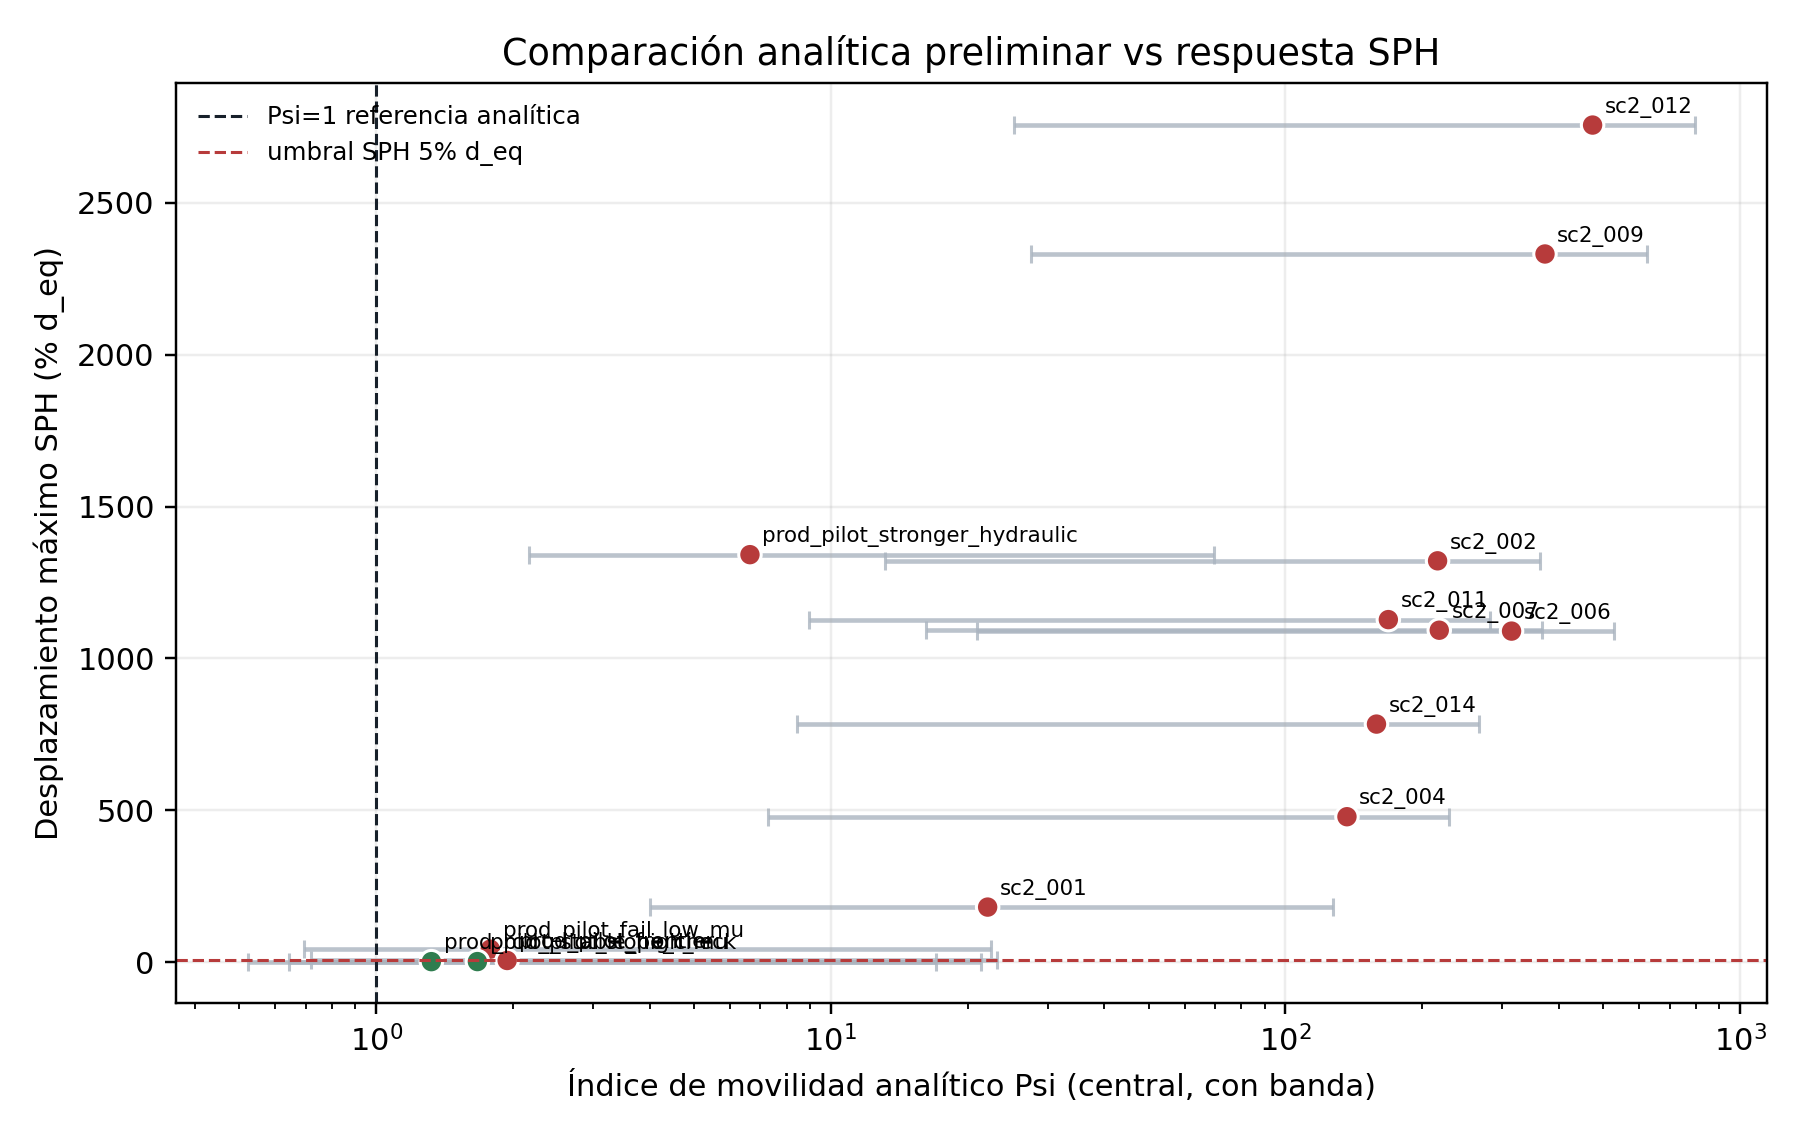
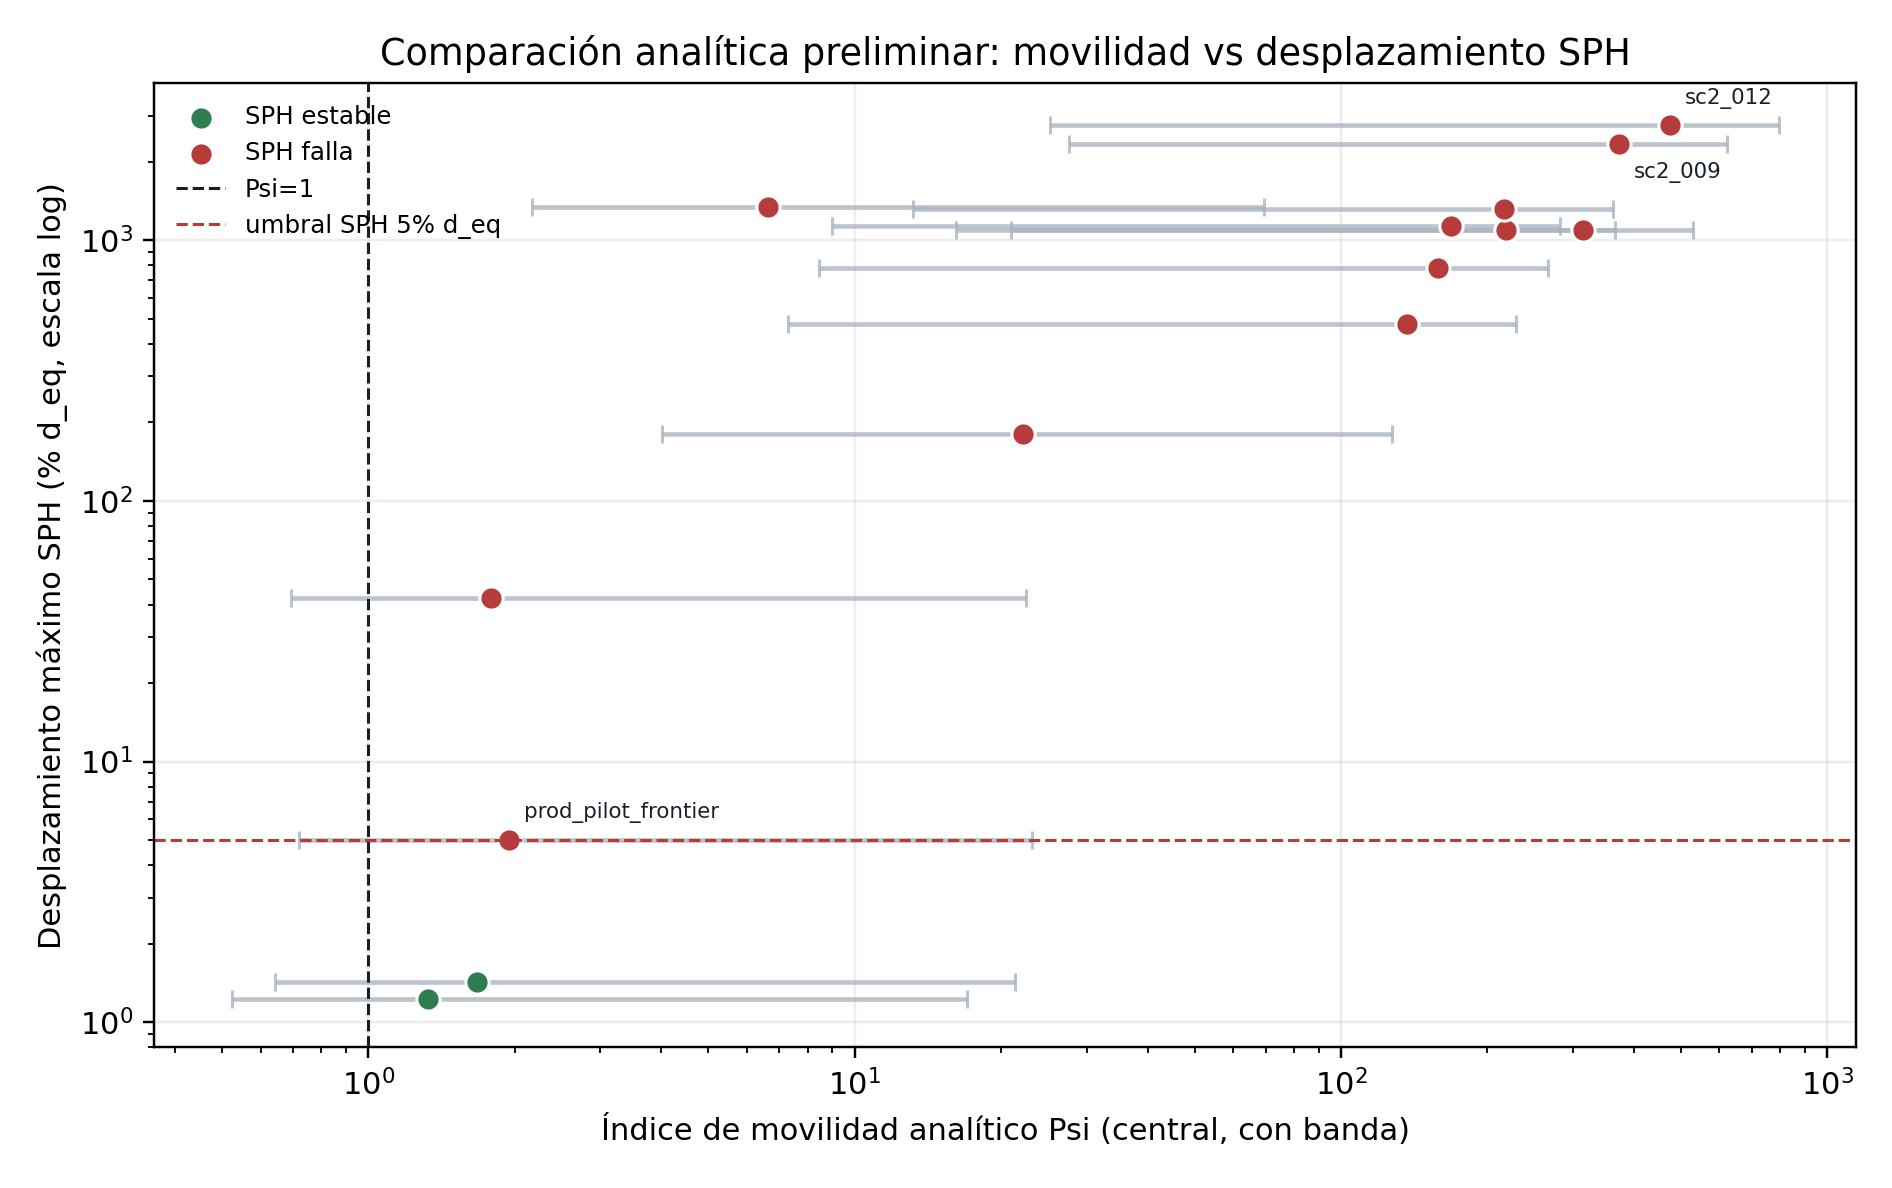
Fix final analysis figure formatting

diff --git a/index.html b/index.html
@@ -117,11 +117,11 @@
       </figure>
       <figure>
         <img src="figures/10_contact_sanity.png" alt="Sanity de contacto bloque suelo sin impacto hidraulico">
-        <figcaption><strong>Sanity de contacto:</strong> columna minima de 1 cm, sin flujo local sobre el bloque. El desplazamiento queda en 1.23% de <code>d_eq</code>, bajo el umbral de 5%, con fuerza SPH local igual a cero.</figcaption>
+        <figcaption><strong>Sanity de contacto:</strong> la zona sombreada es el acomodo inicial de Chrono/contacto. Después de ese transiente, la velocidad cae prácticamente a cero y el desplazamiento sostenido queda en 0.78% de <code>d_eq</code>, bajo el umbral de 5%, sin fuerza SPH local.</figcaption>
       </figure>
       <figure>
         <img src="figures/11_comparacion_analitica.png" alt="Comparacion analitica preliminar entre movilidad y desplazamiento">
-        <figcaption><strong>Comparacion analitica:</strong> indice <code>Psi = F_motriz / F_resistente</code> aplicado a piloto y batch2. No hay contradicciones fuertes entre banda analitica y clase SPH en los casos con datos hidraulicos utiles.</figcaption>
+        <figcaption><strong>Comparacion analitica:</strong> indice <code>Psi = F_motriz / F_resistente</code> aplicado a piloto y batch2. La escala log evita que los casos de desplazamiento extremo oculten los cercanos al umbral. No hay contradicciones fuertes entre banda analitica y clase SPH en los casos con datos hidraulicos utiles.</figcaption>
       </figure>
     </div>
     <p class="note"><strong>Lectura:</strong> estas verificaciones aumentan la defensibilidad del pipeline sin afirmar validacion experimental del bloque. Son controles independientes: hidraulica base, contacto inicial y coherencia fisica de orden de magnitud.</p>